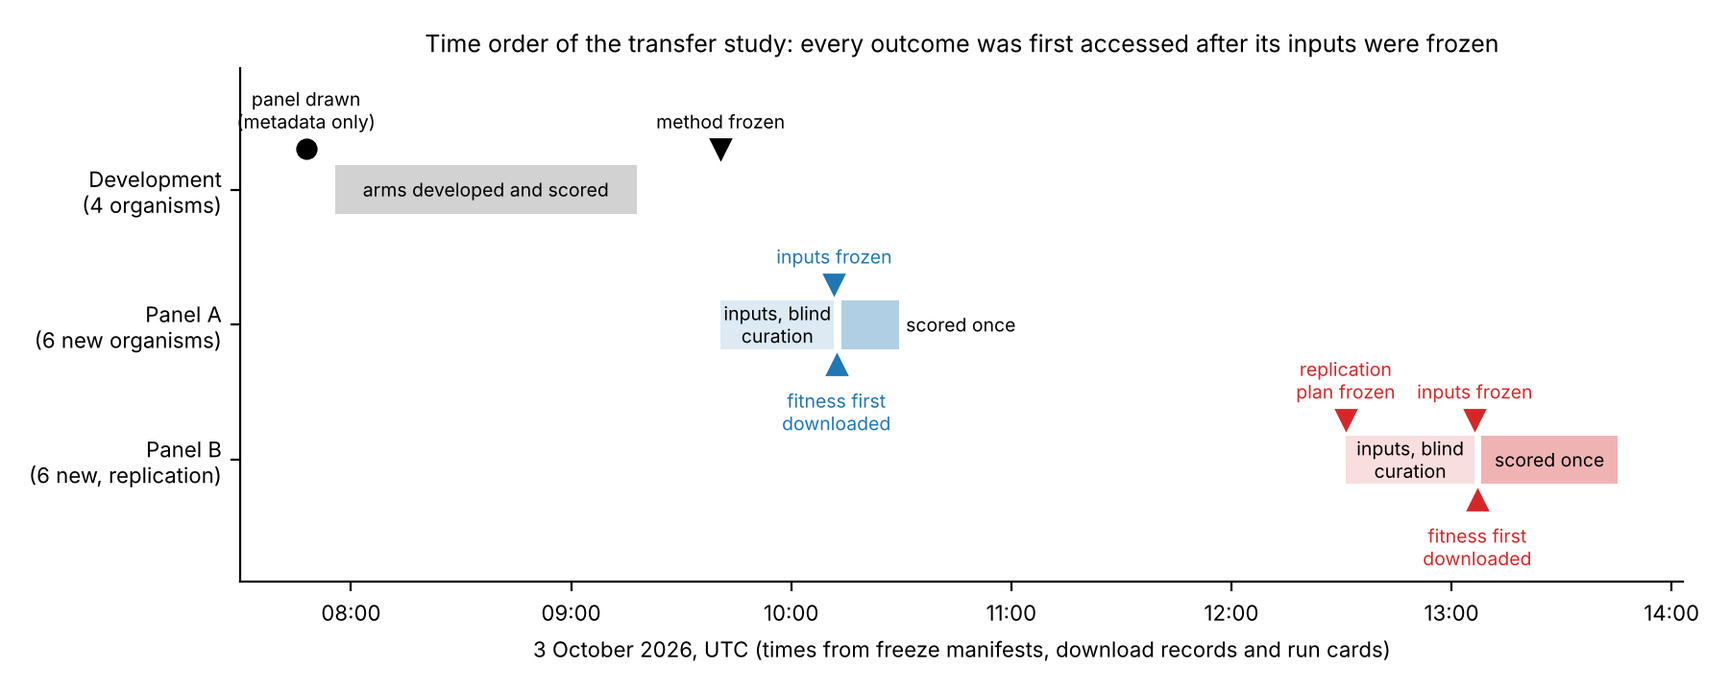
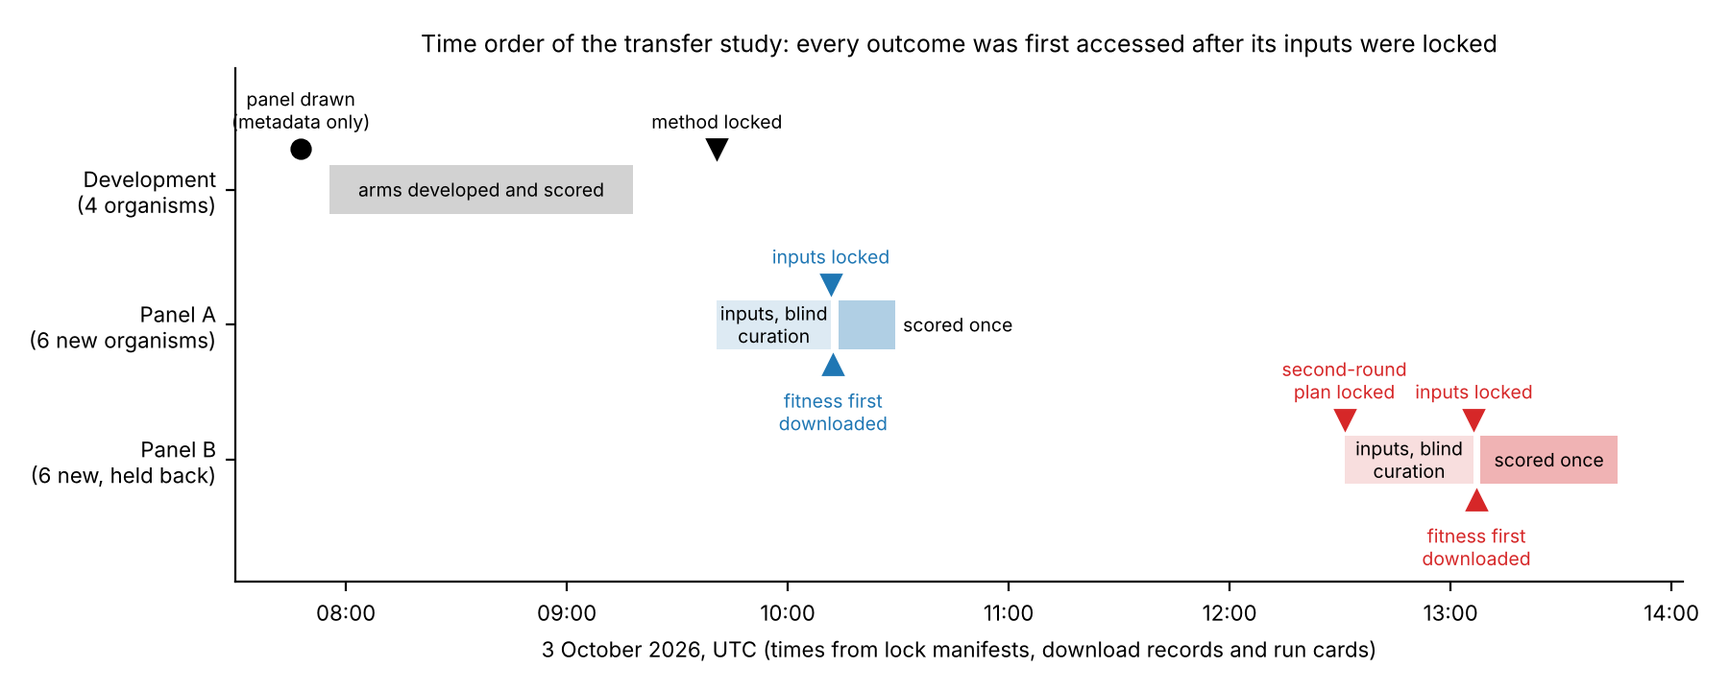
Paper 1: abstract rewritten with Tim (baseline MCC, two rounds, plain wording); frozen -> locked throughout; time order moved from Results to Methods; Figure 1 relabelled
Claude-Session: https://claude.ai/code/session_01KMQQfhQKTXpVja2mGgGu3T

diff --git a/scripts/plot_transfer_timeline.py b/scripts/plot_transfer_timeline.py
@@ -59,7 +59,7 @@ def main() -> None:
     import matplotlib.dates as mdates
     import matplotlib.pyplot as plt
     fig, ax = plt.subplots(figsize=(9, 3.6))
-    lanes = {"Development\n(4 organisms)": 2, "Panel A\n(6 new organisms)": 1, "Panel B\n(6 new, replication)": 0}
+    lanes = {"Development\n(4 organisms)": 2, "Panel A\n(6 new organisms)": 1, "Panel B\n(6 new, held back)": 0}
     grey, blue, red = "#7f7f7f", "#1f77b4", "#d62728"
 
     def span(lane, a, b, colour, text, alpha=0.35):
@@ -78,15 +78,15 @@ def main() -> None:
 
     span(2, *ev["development_runs"], grey, "arms developed and scored")
     mark(2, ev["panel_selected"], "black", "panel drawn\n(metadata only)", marker="o", dy=0.3)
-    mark(2, ev["method_freeze"], "black", "method frozen", marker="v")
+    mark(2, ev["method_freeze"], "black", "method locked", marker="v")
     span(1, ev["method_freeze"], ev["panel_A_inputs_freeze"], blue, "inputs, blind\ncuration", alpha=0.15)
-    mark(1, ev["panel_A_inputs_freeze"], blue, "inputs frozen")
+    mark(1, ev["panel_A_inputs_freeze"], blue, "inputs locked")
     span(1, *ev["panel_A_runs"], blue, "scored once")
     ax.plot(mdates.date2num(t(ev["panel_A_download"][0])), 1 - 0.3, "^", color=blue, ms=7)
     ax.text(mdates.date2num(t(ev["panel_A_download"][0])), 1 - 0.48, "fitness first\ndownloaded", ha="center", va="top", fontsize=7, color=blue)
-    mark(0, ev["replication_plan_freeze"], red, "replication\nplan frozen")
+    mark(0, ev["replication_plan_freeze"], red, "second-round\nplan locked")
     span(0, ev["replication_plan_freeze"], ev["panel_B_inputs_freeze"], red, "inputs, blind\ncuration", alpha=0.15)
-    mark(0, ev["panel_B_inputs_freeze"], red, "inputs frozen", dy=0.3)
+    mark(0, ev["panel_B_inputs_freeze"], red, "inputs locked", dy=0.3)
     span(0, *ev["panel_B_runs"], red, "scored once")
     ax.plot(mdates.date2num(t(ev["panel_B_download"][0])), 0 - 0.3, "^", color=red, ms=7)
     ax.text(mdates.date2num(t(ev["panel_B_download"][0])), 0 - 0.48, "fitness first\ndownloaded", ha="center", va="top", fontsize=7, color=red)
@@ -96,8 +96,8 @@ def main() -> None:
     ax.xaxis.set_major_formatter(mdates.DateFormatter("%H:%M"))
     ax.xaxis.set_major_locator(mdates.HourLocator())
     ax.tick_params(axis="x", labelsize=8)
-    ax.set_xlabel("3 October 2026, UTC (times from freeze manifests, download records and run cards)", fontsize=8)
-    ax.set_title("Time order of the transfer study: every outcome was first accessed after its inputs were frozen", fontsize=9)
+    ax.set_xlabel("3 October 2026, UTC (times from lock manifests, download records and run cards)", fontsize=8)
+    ax.set_title("Time order of the transfer study: every outcome was first accessed after its inputs were locked", fontsize=9)
     for s in ("top", "right"):
         ax.spines[s].set_visible(False)
     fig.tight_layout()

diff --git a/docs/paper/paper1-draft.md b/docs/paper/paper1-draft.md
@@ -1,12 +1,14 @@
 # Paper 1 draft: do corrections to draft metabolic models transfer?
 
-> Repository copy of the Claude Docs draft (https://claude.ai/code/artifact/58c661c0-bff9-419c-a2e4-bbf1a6e4b3c3), exported 5 October 2026. The doc is the working version; this copy records the text at export.
+> Repository copy of the Claude Docs draft (https://claude.ai/code/artifact/58c661c0-bff9-419c-a2e4-bbf1a6e4b3c3), exported 6 October 2026 after the abstract was rewritten with Tim. The doc is the working version; this copy records the text at export.
 
 Oct 5, 2026 · @Tim Hulshof
 
 ## Note for Tim
 
-This is a first full draft of the benchmark paper, written only from the frozen transfer study and its replication. No number in it is new: each comes from a result file in the repository (branch `claude/opus-continuation`), listed under Data and code availability; numbers derived for the paper are in `results/transfer_v1/paper1_derived_numbers.json`.
+This is a first full draft of the benchmark paper, written only from the locked transfer study and its held-back second round. No number in it is new: each one comes from a result file in the repository (branch `claude/opus-continuation`), listed under Data and code availability. Numbers derived for the paper (gene counts, t-intervals) are in results/transfer\_v1/paper1\_derived\_numbers.json.
+
+The abstract was rewritten with Tim on 6 October, and "frozen" became "locked" throughout. The abstract's one new figure, 94%, is 367 of the 391 changed predictions ((273 + 94) / (274 + 117)), from counts in the derived-numbers file.
 
 Decisions that are yours:
 
@@ -22,16 +24,16 @@ Decisions that are yours:
 
 Working titles:
 
-1. Do corrections to draft metabolic models transfer to new organisms? A pre-specified, replicated test on twelve bacteria
-2. Fitness-blind curation of automatically reconstructed metabolic models, tested on held-out bacteria against genome-wide mutant fitness
+1. Do corrections to draft metabolic models transfer to new organisms? A pre-specified test on twelve bacteria
+2. Blind curation of automatically reconstructed metabolic models, tested on held-out bacteria against genome-wide mutant screens
 
-**Abstract.** Automatically reconstructed genome-scale metabolic models are the only models available for most bacteria. Improvements to them are usually judged on the same data that guided them. We asked whether corrections developed on four bacteria improve predictions for organisms that played no part in their development.
+**Abstract.** Most bacteria have only automatically built metabolic models, and corrections to these models are usually judged on the same data that inspired them. We asked whether corrections developed on four bacteria also improve the models of other bacteria.
 
-We scored historical CarveMe drafts (EMBL GEMs) against genome-wide mutant fitness (RB-TnSeq) on carbon sources. On four development bacteria, with the curated *E. coli* model as a reference, we derived five automatic correction rules that use only the genome annotation. We also wrote a procedure in which an AI model curates gene–reaction rules from annotation alone. We froze both in time-stamped manifests. Only then did we download fitness data for a first panel of new organisms and score every model once. We then repeated the test unchanged on a second panel.
+As the yardstick we used published genome-wide mutant screens (RB-TnSeq), which show which genes a bacterium needs to grow on a given carbon source. We compared them with the genes that automatically built models (2017 CarveMe drafts from the EMBL GEMs collection) predict to be needed. On the four development bacteria we wrote five automatic correction rules that use only the genome annotation, and a procedure in which an AI model corrects gene–reaction links without seeing any screening data. We locked both methods, with a time-stamped record, before downloading the screens of twelve new bacteria: all remaining bacteria in the screening database that met criteria set in advance. We tested them in two rounds of six, holding the second round back until the first had been analysed.
 
-The automatic rules raised the Matthews correlation coefficient (MCC) by +0.036 in development and by +0.037 and +0.036 on the two new panels. Pooled over the ten evaluable new organisms the gain was +0.037 (95% interval 0.025 to 0.048): nine organisms improved, one was unchanged and none got worse. Blind AI curation added +0.028 (0.009 to 0.046; eight up, two down). The gain came from removing gene alternatives that are not catalysts (+0.026; the curator joined subunits only twice). Assigning genes to gene-less reactions gave no net gain (+0.003). Rules fixed in advance left two of the twelve organisms unevaluable and misrepresented two more.
+Ten of the twelve could be tested. Before correction, the models agreed with the screens only moderately (Matthews correlation coefficient 0.33 to 0.52 in the eight bacteria whose experiments they could represent; 0 is chance and 1 is perfect). The automatic rules raised it by 0.037 on average (95% interval 0.025 to 0.048). The gain was the same in both rounds and in development, nine bacteria improved and none got worse, and 94% of the predictions the rules changed now agree with the screens. AI curation added 0.028 (eight improved, two worse; 0.029 on the held-back round alone), almost entirely by removing genes the drafts wrongly listed as backup enzymes. Four bacteria exposed limits of the locked pipeline. For two, the locked rules could not set up a model to test. Two others had experiments the models cannot represent: one grows by photosynthesis, and one "carbon-free" medium contains organic carbon. All four are reported.
 
-Simple annotation-based corrections transferred to ten held-out bacteria, within one assay platform and one 2017 draft collection. A self-custodied, time-stamped protocol is a cheap way to test whether a model change helps. Code, freeze manifests and every curation decision are in the project repository.
+Simple annotation-based corrections carry over to new bacteria. The gain is modest but consistent.
 
 ## Introduction
 
@@ -43,15 +45,15 @@ How do we know that a correction helps? Usually by scoring it against phenotype 
 
 Randomly barcoded transposon sequencing (RB-TnSeq) measures the fitness of mutants in nearly every gene, for dozens of bacteria across many carbon sources \[9,10\]. Bernstein et al. showed how to use such data to evaluate *Escherichia coli* models \[11\]. Because the data cover many organisms, they allow a stronger test: develop corrections on some organisms, then score them on organisms that played no part.
 
-AI models are entering curation as well. For Human2 (Human-GEM 2.0), GPT-4 assessed all 26,246 gene–reaction pairs; the pairs it flagged were reviewed by hand, and the updated model was evaluated against CRISPR gene essentiality \[12\]. Machine-learning gap-filling has also been shown to improve phenotype predictions of draft models \[15\]. To our knowledge, no fully automated correction procedure has been frozen before any outcome was accessed, tested on several held-out organisms with an isolated, paired effect estimate, and then replicated.
+AI models are entering curation as well. For Human2 (Human-GEM 2.0), GPT-4 assessed all 26,246 gene–reaction pairs; the pairs it flagged were reviewed by hand, and the updated model was evaluated against CRISPR gene essentiality \[12\]. Machine-learning gap-filling has also been shown to improve phenotype predictions of draft models \[15\]. To our knowledge, no fully automated correction procedure has been locked before any outcome was accessed, tested on several held-out organisms with an isolated, paired effect estimate, and then repeated on a held-back set.
 
-Here we developed five annotation-based correction rules and a written AI curation procedure on four bacteria, and froze both. We then scored them once on six new bacteria whose fitness data were downloaded only after the freeze, and repeated the test unchanged on six more. We report what transferred, what did not, and where the fixed pipeline itself limited the test.
+Here we developed five annotation-based correction rules and a written AI curation procedure on four bacteria, and locked both: every file they use was fingerprinted and recorded with a timestamp, so any later change would show. We then scored them once on six new bacteria whose fitness data were downloaded only after the lock, and repeated the test unchanged on six more that had been held back. We report what transferred, what did not, and where the locked pipeline itself limited the test.
 
 ## Results
 
-### A panel declared before any outcome, and a recorded time order
+### Study design: develop on four bacteria, test on twelve
 
-Every outcome of a new organism was first accessed after the method and that organism's inputs were frozen (Figure 1).
+We developed the corrections on four bacteria, locked them, and tested them on twelve new bacteria in two rounds (Figure 1).
 
 **Panel.** Eligibility was declared before anything was downloaded:
 
@@ -60,7 +62,7 @@ Every outcome of a new organism was first accessed after the method and that org
 - at least eight carbon-source experiments;
 - at most three base media.
 
-Twelve organisms qualified. A seeded random split assigned six to panel A and six to a reserved panel B. Until each panel's inputs were frozen, only non-outcome data were downloaded: gene and experiment metadata, protein sequences and the draft models.
+Twelve organisms qualified: every remaining bacterium in the Fitness Browser that met these criteria. A seeded random split assigned six to panel A, tested first, and six to panel B, held back until panel A had been analysed. Until each panel's inputs were locked, only non-outcome data were downloaded: gene and experiment metadata, protein sequences and the draft models.
 
 **Arms.** Three models were built per organism:
 
@@ -70,20 +72,11 @@ Twelve organisms qualified. A seeded random split assigned six to panel A and si
 
 **Primary metric.** The paired difference in MCC between two arms, on the union of their scored genes. Per organism it carries a gene-bootstrap 95% interval. Across organisms it is the mean of the per-organism differences, with an organism-bootstrap 95% interval. The pre-declared reading: **supported** if the mean is positive and its interval excludes zero, **not supported** if the mean is zero or negative, and **inconclusive** otherwise.
 
-**Time order.** Each freeze is a manifest of file hashes, committed to git. Each was also recorded in a private project document, whose server timestamps follow the freezes by less than half a minute (09:41:01, 10:11:50, 12:31:17 and 13:06:45). All times are on 3 October 2026 (UTC):
-
-1. method frozen at 09:40:45;
-2. panel A inputs (media, carbon sources, base models, curation decisions) frozen at 10:11:43;
-3. panel A fitness tables first downloaded between 10:12:18 and 10:12:40, then every arm run once;
-4. replication plan frozen at 12:31:09;
-5. panel B inputs frozen at 13:06:21;
-6. panel B fitness tables first downloaded between 13:07:00 and 13:07:20, then every arm run once.
-
-On 3 October a separate agent, using its own code, recomputed the primary and secondary results from the run matrices, with exact agreement. It checked the fitness values of every arm against the downloaded tables (376,620 arm × gene × condition cells on panel A and 881,911 on panel B). It also confirmed the time order from git history, the manifests, the download records and the external timestamps. A second agent checked this paper's derived tables, figures and counts against the result files on 5 October.
+**Locking.** The method, and then each panel's inputs including every AI curation decision, were locked before that panel's fitness data were downloaded. Locking means that every file was fingerprinted (hashed), committed to git and recorded with an external timestamp, so any later change would show. The full time order and its independent check are in Methods.
 
 ![Figure 1. Time order of the transfer study](fig1_timeline.png)
 
-*Figure 1. Time order of the transfer study on 3 October 2026 (UTC). The panel was drawn from metadata only. The organism-specific corrections behind the development arms were made in September. Their annotation-triggered form, and the arms shown here, were written and run on 3 October, after the panel was drawn and before any panel outcome was downloaded. Times come from the freeze manifests, the download records and the run cards.*
+*Figure 1. Time order of the transfer study on 3 October 2026 (UTC). The panel was drawn from metadata only. The organism-specific corrections behind the development arms were made in September. Their annotation-triggered form, and the arms shown here, were written and run on 3 October, after the panel was drawn and before any panel outcome was downloaded. Times come from the lock manifests, the download records and the run cards.*
 
 ### The drafts agree only moderately with mutant fitness
 
@@ -141,7 +134,7 @@ The five automatic rules improved agreement on new organisms by the same amount 
 
 ![Figure 2. Per-organism paired MCC differences](fig2_paired_differences.png)
 
-*Figure 2. Paired MCC differences per organism, union of genes. Left: automatic rules (U′ vs B0, H1). Right: blind AI curation (M vs U′, H2); the two panels have different x-axis ranges. Circles: organisms, with 95% gene-bootstrap intervals. Diamonds: means over organisms, with 95% organism-bootstrap intervals. Grey: development organisms (retrospective). Blue: panel A. Red: panel B. Black: pooled new organisms. D. suillum and D. vulgaris Miyazaki F were not evaluable under the frozen rules.*
+*Figure 2. Paired MCC differences per organism, union of genes. Left: automatic rules (U′ vs B0, H1). Right: blind AI curation (M vs U′, H2); the two panels have different x-axis ranges. Circles: organisms, with 95% gene-bootstrap intervals. Diamonds: means over organisms, with 95% organism-bootstrap intervals. Grey: development organisms (retrospective). Blue: panel A. Red: panel B. Black: pooled new organisms. D. suillum and D. vulgaris Miyazaki F were not evaluable under the locked rules.*
 
 ![Figure 3. Components of the corrections](fig3_attribution.png)
 
@@ -188,9 +181,9 @@ Blind AI curation of gene rules added +0.028 MCC pooled over the ten new organis
 
 *Figure 4. New "important gene" calls made by blind curation, by decision kind and organism. Filled: confirmed by the fitness data (fitness ≤ −2). Hatched: not confirmed. Counts are gene × condition cells on the union of genes.*
 
-### The fixed pipeline set its own limits
+### The locked pipeline set its own limits
 
-Rules fixed in advance left two organisms unevaluable and misrepresented two more. None was replaced or dropped after the outcomes were seen.
+Applied as locked, the pipeline could not set up a model for two organisms and misrepresented the experiments of two more. None was replaced or dropped after the outcomes were seen.
 
 | Organism | What happened | Rule responsible |
 | --- | --- | --- |
@@ -219,11 +212,11 @@ Corrections derived from four bacteria improved predictions for nine of ten held
 
 **AI curation works within limits.** Without seeing outcomes, an AI curator improved predictions on eight of ten new organisms; the clean replication on panel B gave +0.029. The gain came from one kind of decision: removing gene alternatives that are not catalysts. Assigning genes to gene-less reactions did not help on balance, and two thirds of its wrong calls involved ion transporters. That suggests a practical policy: let AI curators remove alternatives, and hold their gene assignments, especially to ion transporters, to a stricter standard. Joins of subunits were too rare here to judge.
 
-**Pre-specification is cheap.** It took hours, not months, to do four things: freeze a method, record the freeze, download outcomes only afterwards and have an independent agent recompute every number. The same design suits other claims that a model change helps. Here it has three weaknesses:
+**Pre-specification is cheap.** It took hours, not months, to do four things: lock a method, record the lock, download outcomes only afterwards and have an independent agent recompute every number. The same design suits other claims that a model change helps. Here it has three weaknesses:
 
 - **Self-custody.** The same model family designed, prepared and scored the test, and checked it.
 - **A private record.** The external time record is a private project document. A public registration would be stronger.
-- **One manifest changed.** The replication plan's manifest no longer verifies at the current head, because one input file gained panel B entries before the panel B inputs were frozen.
+- **One manifest changed.** The replication plan's manifest no longer verifies at the current head, because one input file gained panel B entries before the panel B inputs were locked.
 
 An external custodian of the outcome data, or a community challenge on newly measured organisms, would remove the first weakness.
 
@@ -236,14 +229,14 @@ An external custodian of the outcome data, or a community challenge on newly mea
 - **Development exposure.** The curated *E. coli* model helped flag one reaction patch, so *E. coli* counts as a fifth exposed organism.
 - **Blinding of the curator.** It rests on instructions. The packets' gene descriptions came from the Fitness Browser gene table. Whether any of them reflect the Browser's fitness-based re-annotations remains to be checked.
 - **Unknown training exposure.** The AI curator's training may include published phenotypes; the pre-declared sensitivity analysis without *M. tuberculosis* did not change the reading.
-- **Fixed pipeline choices.** These excluded or misrepresented four of twelve organisms.
+- **Locked pipeline choices.** These excluded or misrepresented four of twelve organisms.
 
 **Next tests.**
 
 - Current CarveMe drafts of the same organisms (a robustness check, since these organisms are now exposed).
 - A random-removal control for the curator's removals.
 - Other phenotype types, such as growth profiles.
-- Organisms whose fitness data are published after a method is frozen.
+- Organisms whose fitness data are published after a method is locked.
 
 ## Methods
 
@@ -294,7 +287,7 @@ Water, protons, CO2 and trace metals (capped at 0.1 mmol/gDW/h) were always avai
 
 The rules generalise organism-specific corrections made in September. One reaction patch was found partly with the curated *E. coli* model iML1515. Their annotation-triggered form was written on 3 October, after the panel had been drawn from metadata and before any panel outcome was downloaded. U′ was chosen after all development arms had been run, as the arm with the highest development MCC.
 
-**Blind adjudication (M).** For each organism, a packet was built from the U′ model and metadata only. It listed the gene-less reactions and the alternative-gene rules of reactions essential in at least one mapped condition where U′ grows. Each came with its equation, annotations and current rule. Every gene came with its description from the Fitness Browser gene table, its RefSeq definition and its genomic neighbourhood. One fresh subagent per organism wrote its decisions in one attempt. It was instructed to read only its packet and the written procedure and not to use the web. The procedure was not revised after development. All decisions were frozen with the inputs before any outcome was downloaded.
+**Blind adjudication (M).** For each organism, a packet was built from the U′ model and metadata only. It listed the gene-less reactions and the alternative-gene rules of reactions essential in at least one mapped condition where U′ grows. Each came with its equation, annotations and current rule. Every gene came with its description from the Fitness Browser gene table, its RefSeq definition and its genomic neighbourhood. One fresh subagent per organism wrote its decisions in one attempt. It was instructed to read only its packet and the written procedure and not to use the web. The procedure was not revised after development. All decisions were locked with the inputs before any outcome was downloaded.
 
 **Scoring.**
 
@@ -303,16 +296,27 @@ The rules generalise organism-specific corrections made in September. One reacti
 - **Metric.** MCC \[14\] on all gene × condition pairs where both arms grow. The primary gene set was the union of both arms' genes: a gene absent from a model counts as predicted unimportant there.
 - **Uncertainty and reading.** Per-organism intervals: 1,000 gene-bootstrap resamples. Means: 10,000 organism-bootstrap resamples, with t-based intervals as a sensitivity analysis. Organisms changing by less than 0.001 counted as unchanged. Sign tests were exact and two-sided. The pre-declared reading is given in Results.
 
-**Custody and verification.** Each freeze is a manifest of file hashes with a content fingerprint, committed to git and recorded in a private project document with a server timestamp. Outcome files were downloaded only after the corresponding freeze, and their hashes and download times were recorded. All four manifests verify at their own commits. At the current head the replication plan's manifest differs in one file, `filter_report.json`, which gained panel B entries before the panel B inputs freeze; its earlier entries are unchanged. An independent agent recomputed the primary and secondary results with its own code, and a second agent checked the paper's derived tables and figures.
+**Locking, time order and verification.** Each lock is a manifest of file hashes with a content fingerprint, committed to git and recorded in a private project document whose server timestamp follows the commit by less than half a minute. Outcome files were downloaded only after the corresponding lock, and their hashes and download times were recorded. All times are on 3 October 2026 (UTC), with the external record in brackets:
+
+1. method locked at 09:40:45 (09:41:01);
+2. panel A inputs (media, carbon sources, base models, curation decisions) locked at 10:11:43 (10:11:50);
+3. panel A fitness tables first downloaded between 10:12:18 and 10:12:40, then every arm run once;
+4. replication plan for panel B locked at 12:31:09 (12:31:17);
+5. panel B inputs locked at 13:06:21 (13:06:45);
+6. panel B fitness tables first downloaded between 13:07:00 and 13:07:20, then every arm run once.
+
+All four manifests verify at their own commits. At the current head the replication plan's manifest differs in one file, `filter_report.json`, which gained panel B entries before the panel B inputs were locked; its earlier entries are unchanged.
+
+On 3 October a separate agent, using its own code, recomputed the primary and secondary results from the run matrices, with exact agreement. It checked the fitness values of every arm against the downloaded tables (376,620 arm × gene × condition cells on panel A and 881,911 on panel B), and confirmed the time order from git history, the manifests, the download records and the external timestamps. A second agent checked this paper's derived tables, figures and counts against the result files on 5 October.
 
 ## Data and code availability
 
-All code, inputs, freeze manifests, run matrices and curation decisions are in the project repository (github.com/Unsaif/metabolic\_modelling\_advancements, branch `claude/opus-continuation`). It should be archived with a DOI before submission.
+All code, inputs, lock manifests, run matrices and curation decisions are in the project repository (github.com/Unsaif/metabolic\_modelling\_advancements, branch `claude/opus-continuation`). It should be archived with a DOI before submission.
 
 | What | Where in the repository |
 | --- | --- |
 | Method, replication plan and adjudication procedure (with the verbatim prompt) | `docs/studies/transfer-method-v1.md`, `transfer-v1-replication-plan.md`, `transfer-adjudication-procedure-v1.md`, `transfer-adjudication-prompt-v1.txt` |
-| Freeze manifests | `results/study_freezes/transfer_v1_method.json`, `transfer_v1_inputs_panel_A.json`, `transfer_v1_replication_plan.json`, `transfer_v1_inputs_panel_B.json` |
+| Lock manifests | `results/study_freezes/transfer_v1_method.json`, `transfer_v1_inputs_panel_A.json`, `transfer_v1_replication_plan.json`, `transfer_v1_inputs_panel_B.json` |
 | Every curation decision | `data/studies/transfer_v1/decisions/<organism>.json` |
 | Run matrices, paired comparisons and aggregates | `results/transfer_v1/development/`, `evaluation_panel_A/`, `evaluation_panel_B/`, `pooled_panels_A_B_*.json` |
 | Fitness download records (hashes and times) | `data/fitness_browser_panel/` |
